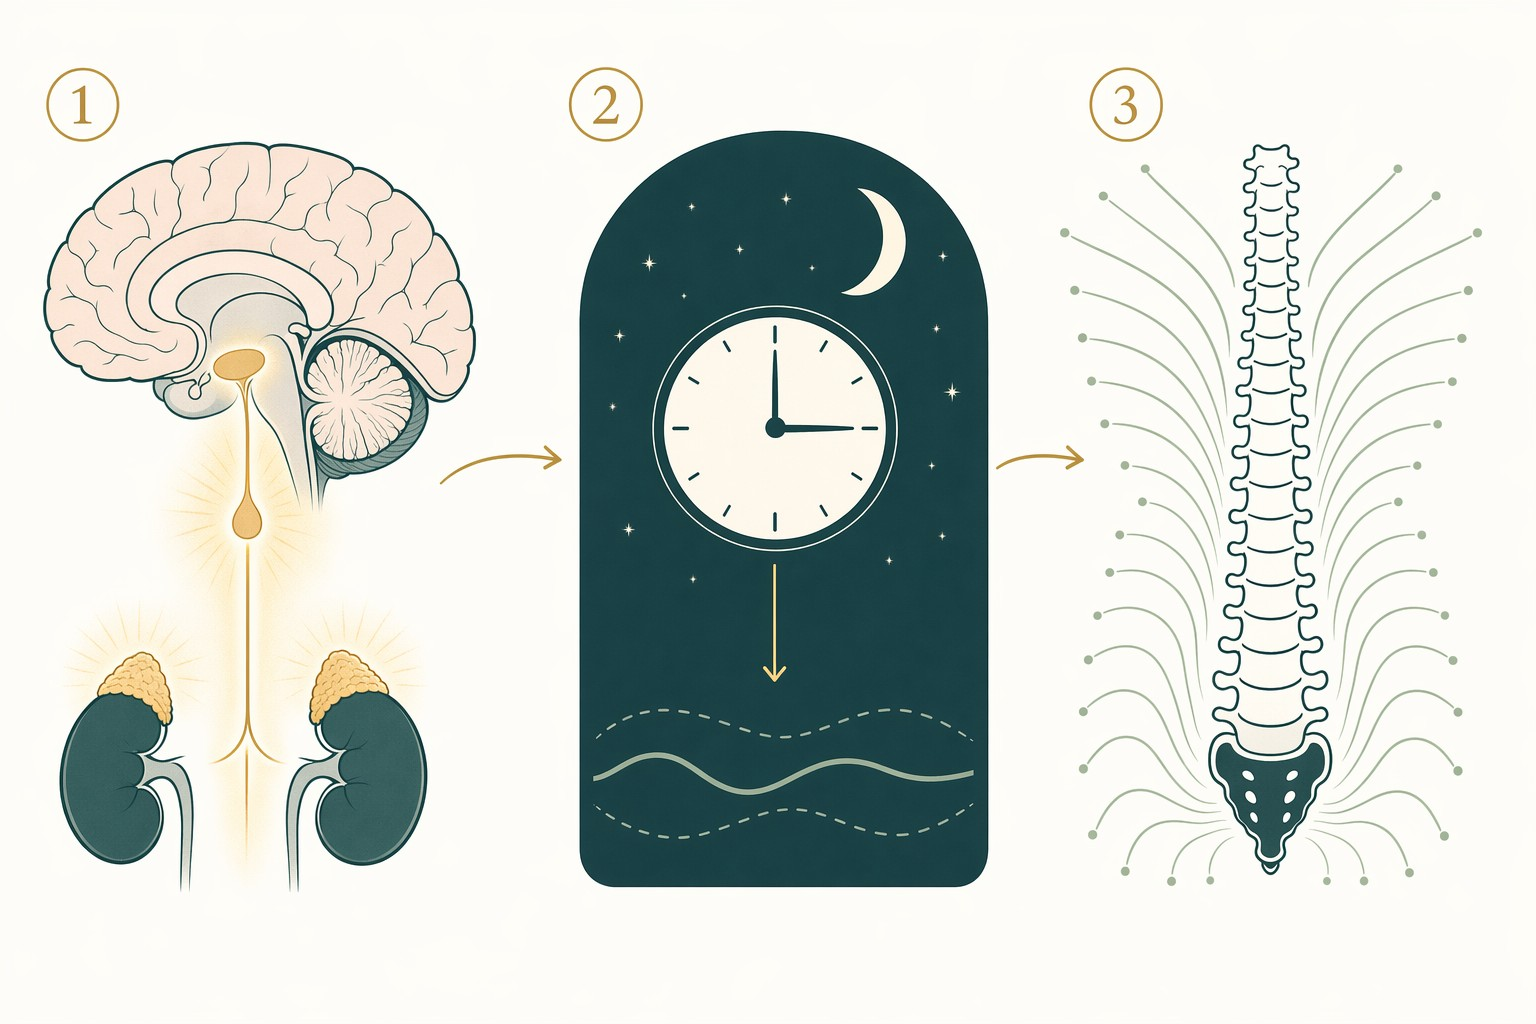
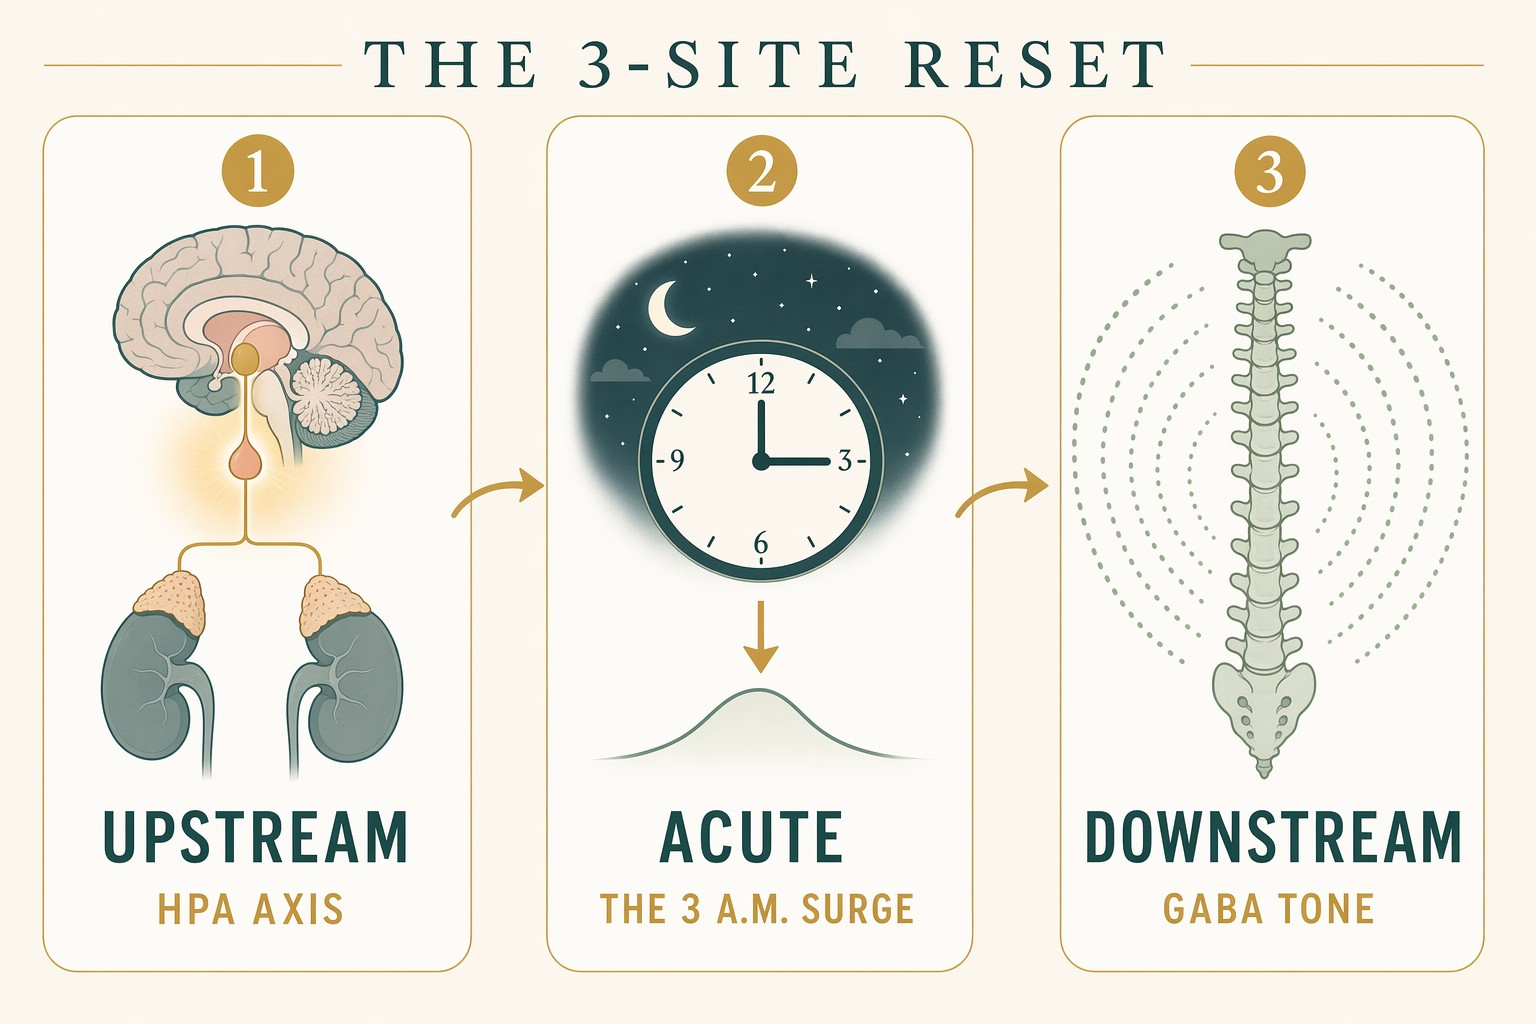
Regenerate the two mechanism infographics with explicit labels
Decoupling is now a clinical data chart: cortisol axis, 24-hour
timeline across the x-axis, the Under-40 curve in teal peaking at
morning, the After-40 curve in burgundy inverted with a gold-arrowed
3 AM SPIKE callout. Reads as a legitimate NYT Health or FiveThirtyEight
graphic instead of an abstract metaphor.

3-Site Reset now carries its own headline (THE 3-SITE RESET) and
labels each panel with both a tier word (UPSTREAM / ACUTE / DOWNSTREAM)
and the biology (HPA AXIS / THE 3 AM SURGE / GABA TONE). Gold
connecting arrows preserved. Caption updated and the redundant
HTML-side numbered legend removed since the labels are now in-image.

Both images match the information density of the Fiber-style callouts
added in db6b1c5.

diff --git a/articles/5-signs-cortisol-after-40/index.html b/articles/5-signs-cortisol-after-40/index.html
@@ -123,9 +123,9 @@
     <p>Research published in multiple peer-reviewed journals, including findings associated with Yale researchers on women's health, has documented a pattern: as estrogen declines, cortisol reactivity increases. Women who had normal cortisol responses at 35 can have measurably altered responses at 45. This shift accounts for — or at minimum significantly contributes to — all five of the signs above.</p>
 
     <figure class="infographic">
-      <img src="/assets/images/infographic-decoupling.jpg" alt="Two cortisol rhythm curves side by side: on the left, a smooth healthy daily wave held in check by a soft gold estrogen band; on the right, the same wave with a jagged 3 a.m. spike as the estrogen band fades and tears.">
+      <img src="/assets/images/infographic-decoupling.jpg" alt="A 24-hour cortisol rhythm chart with two overlaid curves. A dark teal 'Under 40' curve peaks around 6 a.m. and tapers smoothly to a low at night. A burgundy 'After 40' curve is flat through the day and rises into a sharp '3 AM Spike' peak labeled with a gold arrow.">
       <figcaption class="infographic__caption">
-        <strong class="infographic__lead">The Estrogen-Cortisol Decoupling.</strong> In your 30s, estrogen acts as a gentle brake on your cortisol rhythm. In perimenopause, that brake fades — and cortisol begins firing at the wrong times, in the wrong amounts, and in the wrong places in your body. The same biology that kept you stable at 34 is no longer doing its job at 44.
+        <strong class="infographic__lead">The Estrogen-Cortisol Decoupling.</strong> In premenopausal women, cortisol peaks with the morning and falls to its lowest point overnight. In perimenopause, that pattern inverts — the morning peak flattens, and the nighttime nadir is replaced by a surge. The result: you wake up tired, then wake again at 3 a.m.
       </figcaption>
     </figure>
 
@@ -163,14 +163,9 @@
     <p>What the research increasingly points to is that the cortisol pattern needs to be addressed at its source — at the adrenal level, where cortisol is produced and released — using evidence-based adaptogens that modulate the HPA axis directly. The single most-studied adaptogen for this purpose is a specific form of ashwagandha called <strong>KSM-66</strong>.</p>
 
     <figure class="infographic">
-      <img src="/assets/images/infographic-3-site-reset.jpg" alt="Three-stage biological pathway illustration: (1) a brain with the hypothalamic-pituitary-adrenal axis glowing in gold; (2) a night scene with a clock reading three a.m. and a downward arrow blunting a wave; (3) a spine with sage-green radiating lines representing restored nervous-system calm.">
+      <img src="/assets/images/infographic-3-site-reset.jpg" alt="Three-panel editorial infographic titled 'The 3-Site Reset'. Panel 1: brain with the HPA axis and adrenal glands, labeled UPSTREAM — HPA AXIS. Panel 2: a clock under a crescent moon, labeled ACUTE — THE 3 A.M. SURGE. Panel 3: a spine with sage-green radiating lines, labeled DOWNSTREAM — GABA TONE. Gold arrows connect the three panels.">
       <figcaption class="infographic__caption">
-        <strong class="infographic__lead">The 3-Site Cortisol Cascade.</strong> The decoupling has three distinct failure points — upstream at the HPA axis, acute at the 3 a.m. surge, and downstream at the calming signal. A single-ingredient approach addresses one. A full-cascade formula addresses all three simultaneously.
-        <span class="infographic__steps">
-          <span><strong>1.</strong> Upstream — HPA-axis sensitivity</span>
-          <span><strong>2.</strong> Acute — the 3 a.m. surge</span>
-          <span><strong>3.</strong> Downstream — GABA tone</span>
-        </span>
+        <strong class="infographic__lead">The 3-Site Reset.</strong> The cascade has three distinct failure points — at the axis where cortisol is produced, at the moment it surges, and at the receptor where it should quiet. A single-ingredient approach addresses one of these. A full-cascade formula addresses all three at the same time.
       </figcaption>
     </figure>
 
